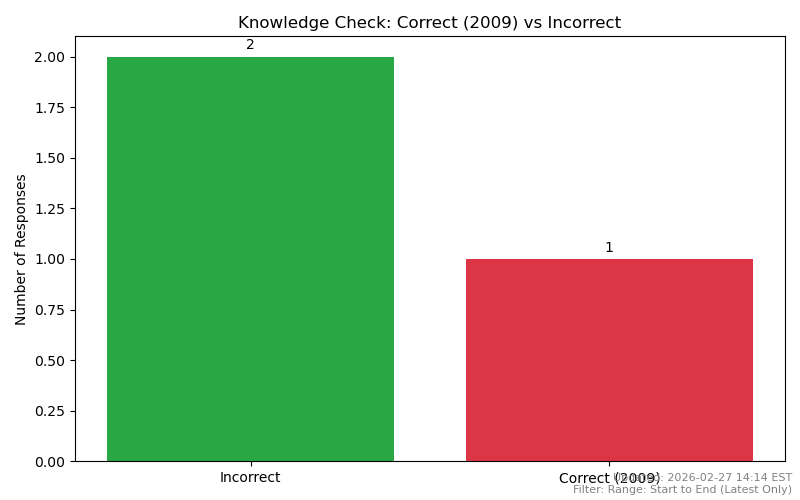
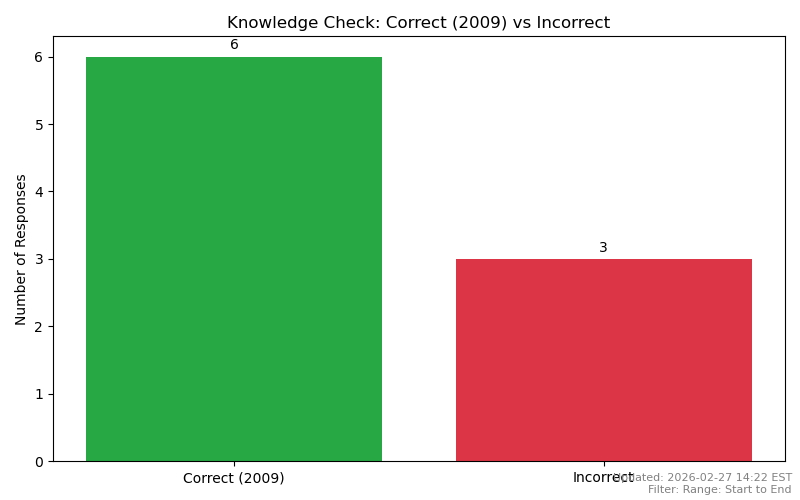
added options

diff --git a/genete_results.html b/genete_results.html
@@ -17,8 +17,8 @@
         <div class="container">
             <h1>Genete Survey Dashboard</h1>
             <div class="meta">
-                <strong>Local Time:</strong> 2026-02-27 14:14 EST<br>
-                <strong>Date Filter:</strong> Range: Start to End (Latest Only)<br>
+                <strong>Local Time:</strong> 2026-02-27 14:22 EST<br>
+                <strong>Date Filter:</strong> Range: Start to End<br>
                 <strong>Unique Users Counted:</strong> 3
             </div>
     <div class='section'><h2>Overall Choice: 2002 vs 1984</h2><img src='fig1.png' alt='Overall Choice: 2002 vs 1984'>
@@ -33,15 +33,15 @@
         <tbody>
     
             <tr>
-                <td style="padding: 12px; border: 1px solid #dee2e6;">1984</td>
-                <td style="padding: 12px; border: 1px solid #dee2e6;">3</td>
-                <td style="padding: 12px; border: 1px solid #dee2e6; font-weight: bold;">75.0%</td>
+                <td style="padding: 12px; border: 1px solid #dee2e6;">2002</td>
+                <td style="padding: 12px; border: 1px solid #dee2e6;">5</td>
+                <td style="padding: 12px; border: 1px solid #dee2e6; font-weight: bold;">55.6%</td>
             </tr>
         
             <tr>
-                <td style="padding: 12px; border: 1px solid #dee2e6;">2002</td>
-                <td style="padding: 12px; border: 1px solid #dee2e6;">1</td>
-                <td style="padding: 12px; border: 1px solid #dee2e6; font-weight: bold;">25.0%</td>
+                <td style="padding: 12px; border: 1px solid #dee2e6;">1984</td>
+                <td style="padding: 12px; border: 1px solid #dee2e6;">4</td>
+                <td style="padding: 12px; border: 1px solid #dee2e6; font-weight: bold;">44.4%</td>
             </tr>
         </tbody></table></div><div class='section'><h2>Knowledge Check: Correct (2009) vs Incorrect</h2><img src='fig2.png' alt='Knowledge Check: Correct (2009) vs Incorrect'>
     <table style="width:100%; border-collapse: collapse; margin-top: 20px; text-align: left; font-size: 0.9em;">
@@ -55,14 +55,14 @@
         <tbody>
     
             <tr>
-                <td style="padding: 12px; border: 1px solid #dee2e6;">Incorrect</td>
-                <td style="padding: 12px; border: 1px solid #dee2e6;">2</td>
+                <td style="padding: 12px; border: 1px solid #dee2e6;">Correct (2009)</td>
+                <td style="padding: 12px; border: 1px solid #dee2e6;">6</td>
                 <td style="padding: 12px; border: 1px solid #dee2e6; font-weight: bold;">66.7%</td>
             </tr>
         
             <tr>
-                <td style="padding: 12px; border: 1px solid #dee2e6;">Correct (2009)</td>
-                <td style="padding: 12px; border: 1px solid #dee2e6;">1</td>
+                <td style="padding: 12px; border: 1px solid #dee2e6;">Incorrect</td>
+                <td style="padding: 12px; border: 1px solid #dee2e6;">3</td>
                 <td style="padding: 12px; border: 1px solid #dee2e6; font-weight: bold;">33.3%</td>
             </tr>
         </tbody></table></div><div class='section'><h2>Adjusted Choice: 2002 vs 1984 (Correct Respondents Only)</h2><img src='fig3.png' alt='Adjusted Choice: 2002 vs 1984 (Correct Respondents Only)'>
@@ -77,14 +77,14 @@
         <tbody>
     
             <tr>
-                <td style="padding: 12px; border: 1px solid #dee2e6;">1984</td>
-                <td style="padding: 12px; border: 1px solid #dee2e6;">1</td>
-                <td style="padding: 12px; border: 1px solid #dee2e6; font-weight: bold;">50.0%</td>
+                <td style="padding: 12px; border: 1px solid #dee2e6;">2002</td>
+                <td style="padding: 12px; border: 1px solid #dee2e6;">5</td>
+                <td style="padding: 12px; border: 1px solid #dee2e6; font-weight: bold;">62.5%</td>
             </tr>
         
             <tr>
-                <td style="padding: 12px; border: 1px solid #dee2e6;">2002</td>
-                <td style="padding: 12px; border: 1px solid #dee2e6;">1</td>
-                <td style="padding: 12px; border: 1px solid #dee2e6; font-weight: bold;">50.0%</td>
+                <td style="padding: 12px; border: 1px solid #dee2e6;">1984</td>
+                <td style="padding: 12px; border: 1px solid #dee2e6;">3</td>
+                <td style="padding: 12px; border: 1px solid #dee2e6; font-weight: bold;">37.5%</td>
             </tr>
         </tbody></table></div></div></body></html>
